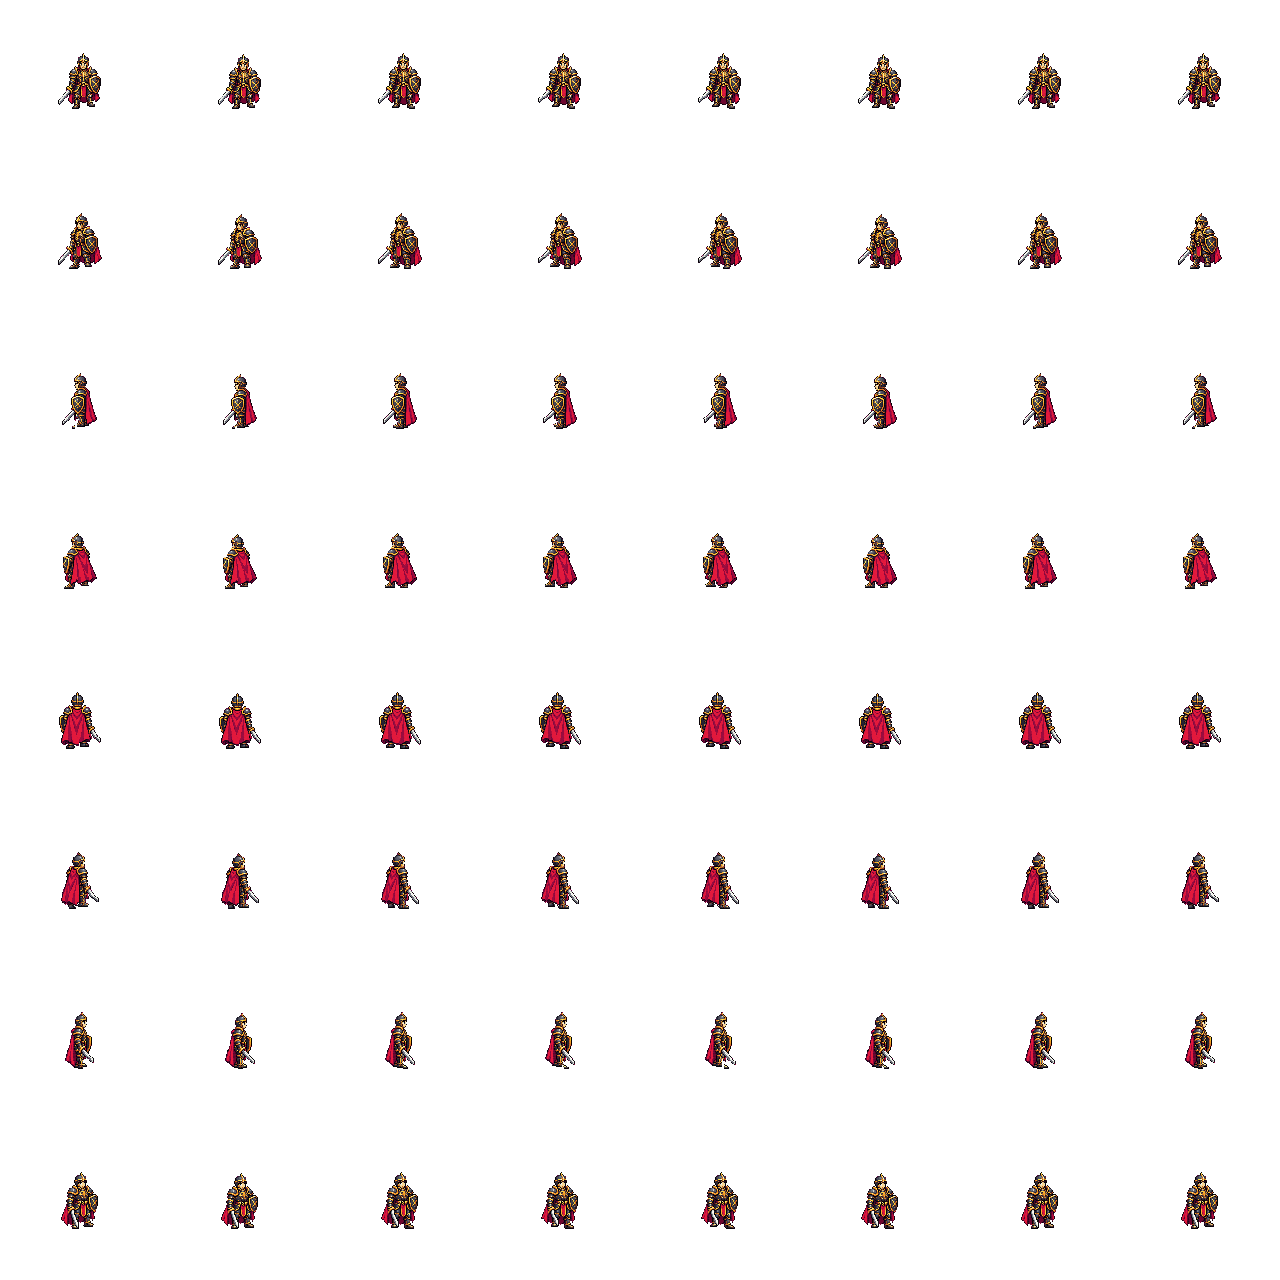
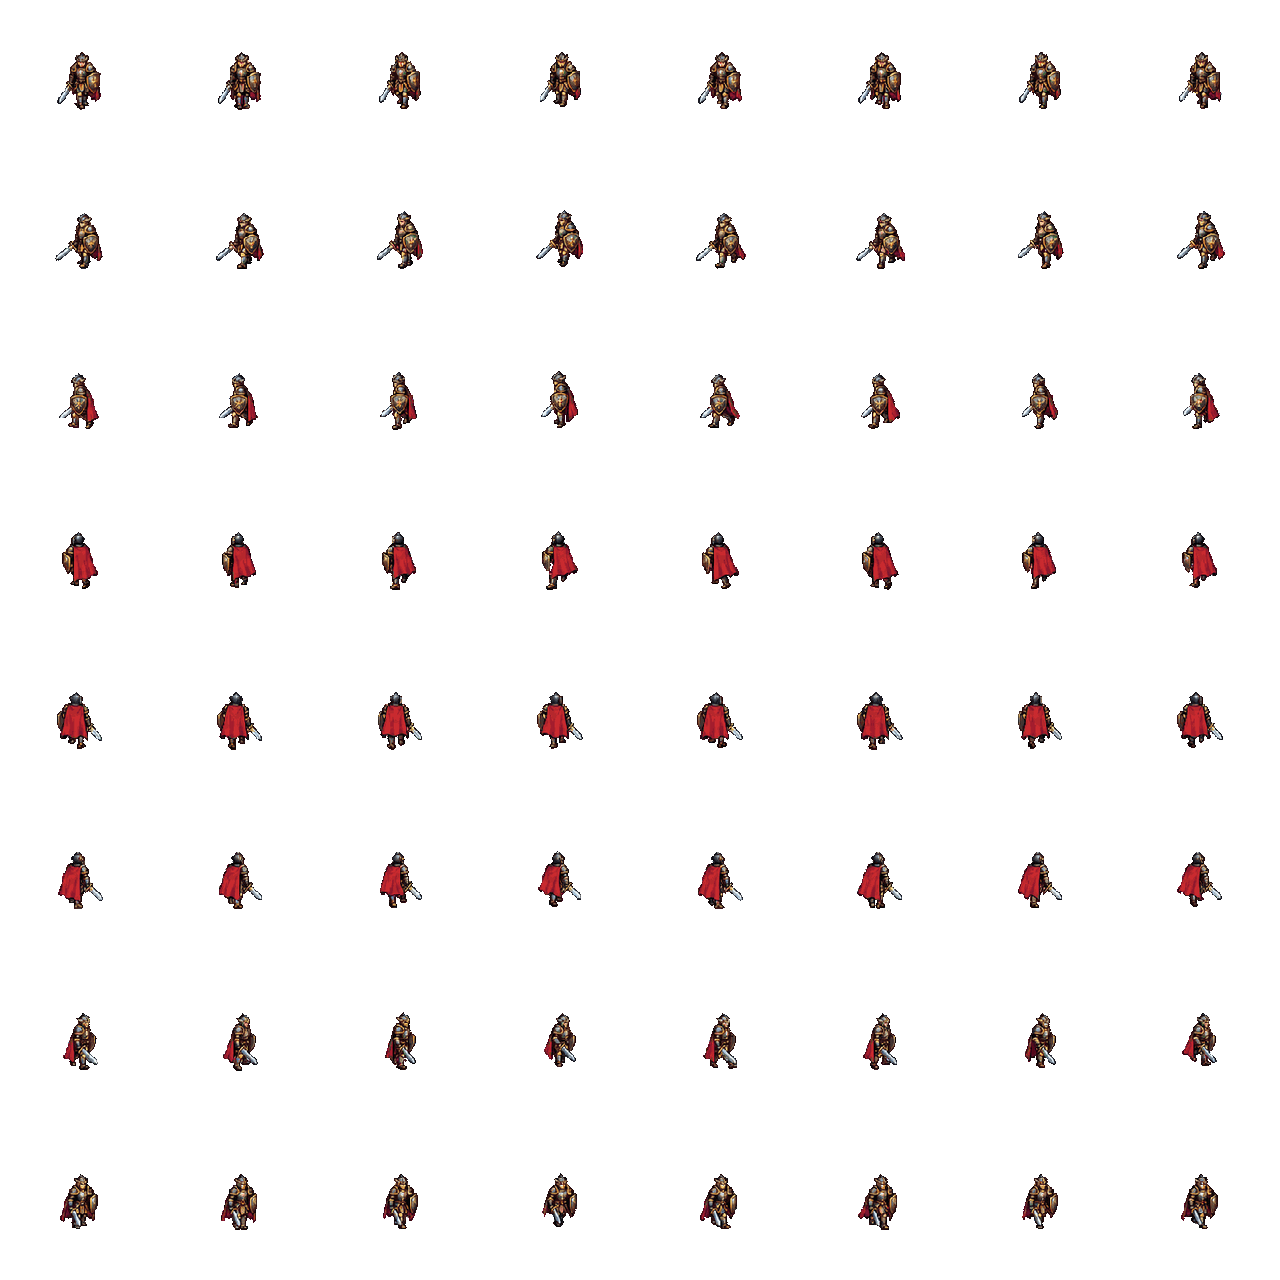
걷기 모션을 사용자 제공 player-motion 걷기 그림으로 교체
- 10명 × 8방향 × 8프레임 걷기 그림을 게임 칸(160px, 발 기준점 80,109)에 방향별로 맞춤
- 대기 그림과 키가 같도록 캐릭터마다 87~99% 로 축소 (걷기 시작 · 멈출 때 크기가 튀지 않게)
- 대기 그림을 변형해 만들던 tools/make_walk.py 삭제

Claude-Session: https://claude.ai/code/session_01H5r5unSnEP9dc4z6GWhEq3

diff --git a/js/game/chars.js b/js/game/chars.js
@@ -1,7 +1,7 @@
 // 8방향 도트 캐릭터 그리기 (assets/chars, 데이터는 js/data/chars.js)
 //
 // - 대기: 바라보는 방향의 대기 그림 1장
-// - 걷기: walk.webp 8방향 × 8프레임 (대기 그림에서 tools/make_walk.py 로 만든 걸음). 발걸음 위상에 맞춰 넘김
+// - 걷기: walk.webp 8방향 × 8프레임 (사용자 제공 player-motion 걷기 그림). 발걸음 위상에 맞춰 넘김
 // - 일반공격 · 스킬: 8프레임을 팩에 적힌 프레임별 시간대로 재생 (몸 전체 동작)
 // - 이펙트: 팩 규격대로 캐릭터 앞 고정 위치에서 같은 프레임 번호로 재생 (날아가지 않음)
 // 도트 그림이라 배율 1, 부드럽게 하지 않음

diff --git a/README.md b/README.md
@@ -165,7 +165,7 @@ npm test         # 성장/전투 공식 단위 테스트
 - 칸 160px, 발 기준점 (80,109), 배율 1(도트 그대로). 방향은 화면 기준 남 · 남서 · 서 · 북서 · 북 · 북동 · 동 · 남동
 - 공격 · 스킬은 팩에 적힌 프레임별 시간대로 재생하고, 피해 · 화살 · 마법탄은 팩의 타격(발사) 프레임에 맞춰 나갑니다 (기사 스킬은 2 · 4번 프레임 중 첫 타격 기준)
 - 이펙트는 팩 규격대로 캐릭터 앞 고정 위치에서 몸과 같은 프레임 번호로 재생합니다. 스킬마다 다른 명중 이펙트(「환생 루프」 스킬 그림)는 대상에게 그대로 나옵니다.
-- 걷기: `walk.webp`(8방향 × 8프레임). 팩에 걷기 그림이 없어서 `tools/make_walk.py`가 각 방향의 대기 그림에서 다리를 좌우로 나눠 만듭니다 — 참고 걸음처럼 두 발이 번갈아 1~2px 들리고, 옆 · 대각선은 다리가 앞뒤로 벌어졌다 모이며, 디딜 때 몸이 1px 내려앉습니다. 실제 이동 거리에 맞춰 프레임을 넘깁니다(두 걸음 = 3.2칸). 대기 그림을 바꾸면 `python3 tools/make_walk.py`로 다시 만드세요.
+- 걷기: `walk.webp`(8방향 × 8프레임) — 사용자가 제공한 「player-motion」 걷기 그림. 원본 128px 칸을 게임 칸(160px, 발 기준점 (80,109))에 방향별로 맞추고, 대기 그림과 키가 같도록 캐릭터마다 87~99%로 줄였습니다. 실제 이동 거리에 맞춰 프레임을 넘깁니다(두 걸음 = 3.2칸).
 - 직업마다 대표 스킬 동작이 1개라서, 8개 스킬 모두 같은 스킬 동작을 씁니다.
 - 예전 용병 외형(성기사 · 마검사 · 몽크)은 같은 직업의 8방향 그림으로 바뀝니다.
 
